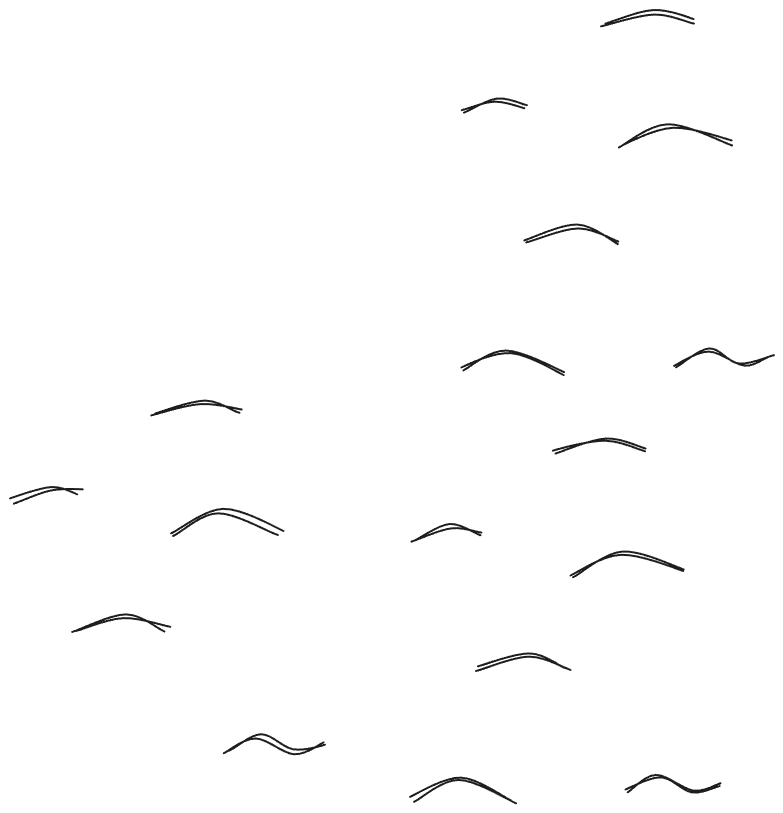
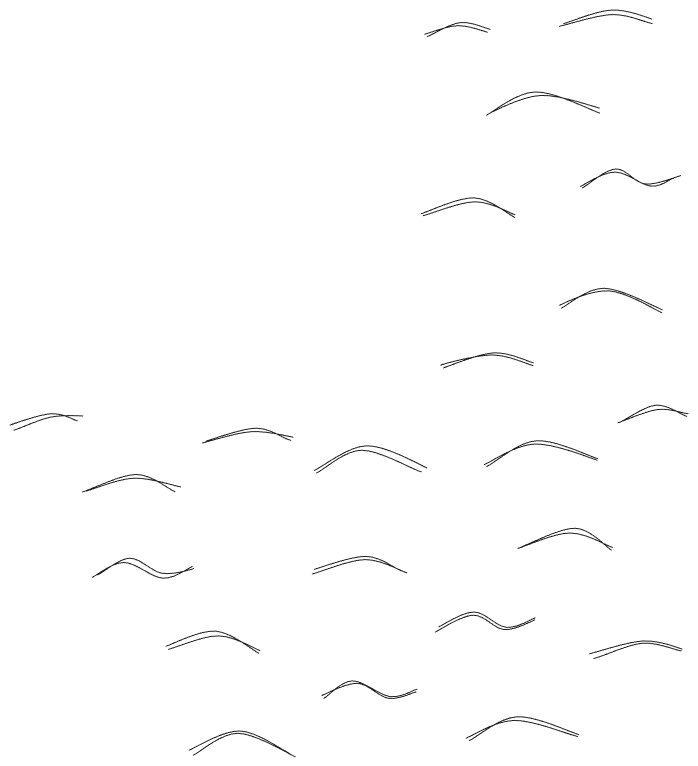
assets

diff --git a/web/src/fetchAssets.js b/web/src/fetchAssets.js
@@ -13,6 +13,7 @@
  * ferrisEmpty: HTMLImageElement[],
  * ferris: HTMLImageElement[],
  * ferrisMenu: HTMLImageElement[],
+ * lakeWaves: HTMLImageElement[],
  * }>}
  */
 async function fetchAsset() {
@@ -60,6 +61,7 @@ async function fetchAsset() {
             "assets/ferris-wheel/ferris-exit.png",
             "assets/ferris-wheel/ferris-menu-background.png",
         ],
+        lakeWaves: ["assets/lake/wave-1.png", "assets/lake/wave-2.png"],
     };
 
     /**
@@ -77,6 +79,7 @@ async function fetchAsset() {
      * ferrisEmpty: HTMLImageElement[],
      * ferris: HTMLImageElement[],
      * ferrisMenu: HTMLImageElement[],
+     * lakeWaves: HTMLImageElement[],
      * }}
      */
     const preloaded = {
@@ -93,6 +96,7 @@ async function fetchAsset() {
         ferrisEmpty: [],
         ferris: [],
         ferrisMenu: [],
+        lakeWaves: [],
     };
 
     await preloadImages(path.blueWalkLeft, preloaded.blueWalkLeft);
@@ -108,6 +112,7 @@ async function fetchAsset() {
     await preloadImages(path.ferrisEmpty, preloaded.ferrisEmpty);
     await preloadImages(path.ferris, preloaded.ferris);
     await preloadImages(path.ferrisMenu, preloaded.ferrisMenu);
+    await preloadImages(path.lakeWaves, preloaded.lakeWaves);
 
     return preloaded;
 }
